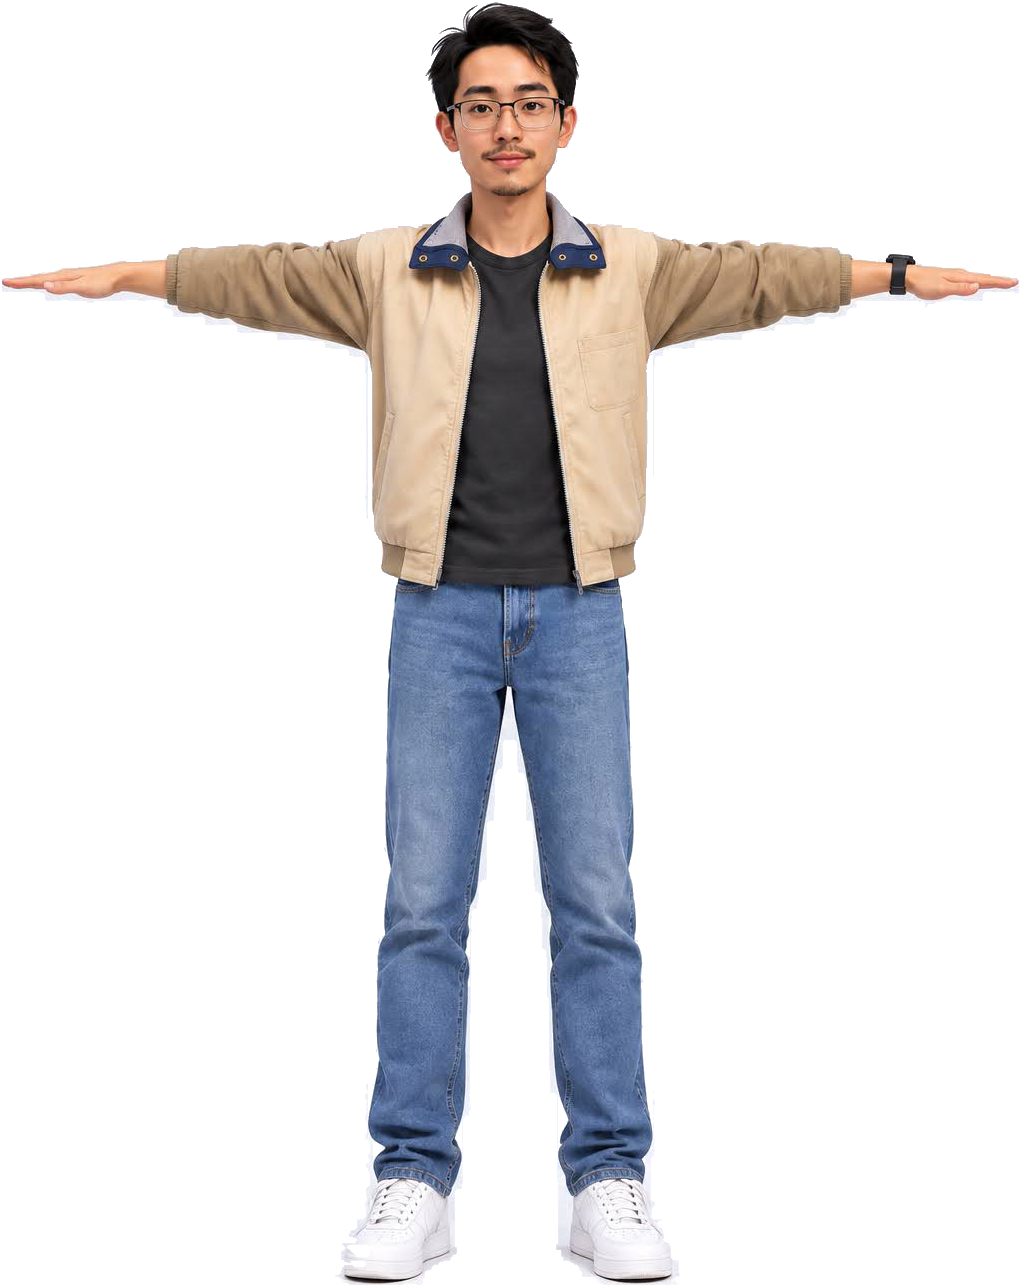
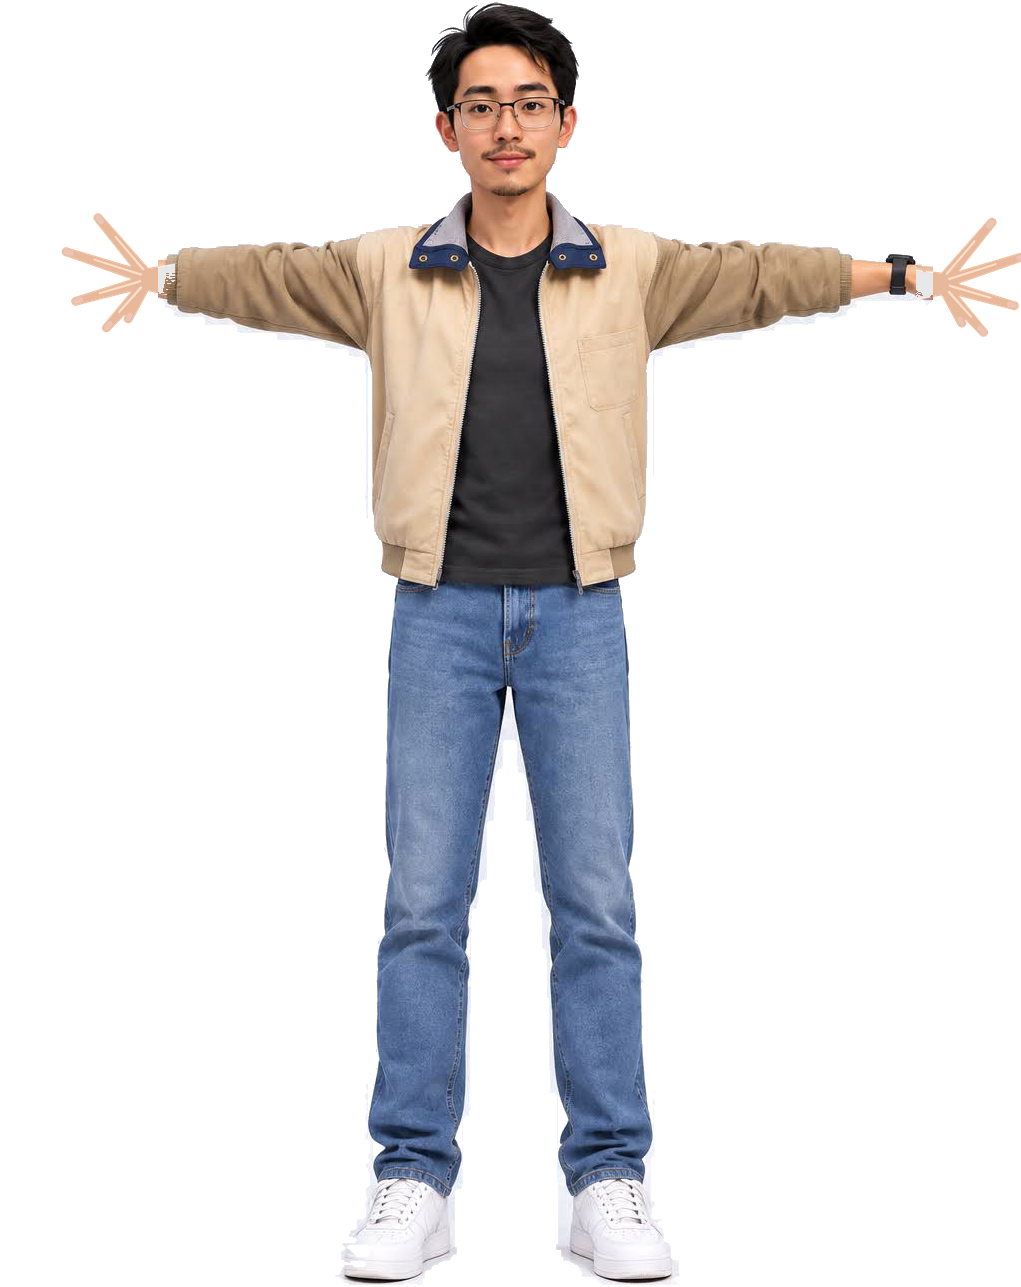
Give each open hand five separated fingers.

Changed region(s): [[0.0, 0.1554, 0.1822, 0.2797], [0.8805, 0.1554, 1.0, 0.2797]]

diff --git a/dance-rig.js b/dance-rig.js
@@ -39,6 +39,38 @@
     let aTop = widest, aBot = widest;
     while(aTop > top && widthAt(aTop - 1) > thr) aTop--;
     while(aBot < bot && widthAt(aBot + 1) > thr) aBot++;
+    // 五指張開後，指尖那幾列和手臂一樣寬，手臂帶會被撐到整隻手那麼高。
+    // 肩膀厚度和雙馬尾裁切跟前臂走，不跟著指尖變厚。
+    {
+      const span = Math.max(1, xMax[widest] - xMin[widest]);
+      const forearm = [];
+      const probeCol = x => {
+        let best = -1, bestD = 1e9;
+        const y0 = Math.max(top, widest - 80), y1 = Math.min(bot, widest + 80);
+        for(let yy = y0; yy <= y1; yy++) if(d[(yy*W + x)*4 + 3] > ALPHA){
+          const dd = Math.abs(yy - widest); if(dd < bestD){ bestD = dd; best = yy; }
+        }
+        if(best < 0) return;
+        let a = best, b = best;
+        while(a > top && d[((a - 1)*W + x)*4 + 3] > ALPHA) a--;
+        while(b < bot && d[((b + 1)*W + x)*4 + 3] > ALPHA) b++;
+        if(b - a > hh*.2) return;
+        forearm.push(b - a);
+      };
+      for(const t of [.12, .16, .2]){
+        probeCol(xMin[widest] + Math.round(span*t));
+        probeCol(xMax[widest] - Math.round(span*t));
+      }
+      if(forearm.length >= 3){
+        forearm.sort((p, q) => p - q);
+        const thick = forearm[Math.floor(forearm.length/2)];
+        if(aBot - aTop > thick*1.55){
+          const half = Math.max(4, Math.round(thick/2));
+          aTop = Math.max(top, widest - half);
+          aBot = Math.min(bot, widest + half);
+        }
+      }
+    }
     // 上半身明顯比中段寬才是有張開的手臂（裙子不會被誤判）；斜的手臂也能通過
     const midW = widthAt(top + Math.round(hh*.5));
     const arms = maxW > midW*1.1 && widest < top + hh*.6;
@@ -74,21 +106,25 @@
     if(arms){
       const scan = (from, to) => {
         for(let x = from; x <= to; x++){
-          let best = -1, bestD = 1e9;
-          for(let y = top; y <= hipY; y++) if(d[(y*W + x)*4 + 3] > ALPHA){
-            const dd = Math.abs(y - widest); if(dd < bestD){ bestD = dd; best = y; }
-          }
-          if(best < 0) continue;
-          let a = best, b = best;
-          while(a > top && d[((a - 1)*W + x)*4 + 3] > ALPHA) a--;
-          while(b < hipY && d[((b + 1)*W + x)*4 + 3] > ALPHA) b++;
-          // 同一欄若和手臂連在一起，雙馬尾、耳朵、外套會整條被算進手臂。
-          // 伸出手臂帶太多的那截留在身體上，手一抬才不會把頭髮甩到臉前面。
+          // 張開的五指中間是透明的，每一指各自是一段。離手臂帶近的都算手。
+          // 雙馬尾、耳朵、外套若伸出手臂帶太多，整段留在身體上，手一抬才不會甩到前面。
           const slack = Math.max(12, Math.round((armBot - armTop) * 0.9));
-          if(armTop - a > slack * 2) a = armTop;
-          if(b - armBot > slack * 2) b = armBot;
-          if(a > b) continue;
-          armTopAt[x] = a; armBotAt[x] = b;
+          let aMin = 1e9, bMax = -1;
+          for(let y = top; y <= hipY; y++){
+            if(d[(y*W + x)*4 + 3] <= ALPHA) continue;
+            let a = y, b = y;
+            while(b < hipY && d[((b + 1)*W + x)*4 + 3] > ALPHA) b++;
+            const tooFar = armTop - a > slack * 2 || b - armBot > slack * 2;
+            if(tooFar){
+              if(b < armTop || a > armBot){ y = b; continue; }
+              a = Math.max(a, armTop); b = Math.min(b, armBot);
+            }
+            if(a < aMin) aMin = a;
+            if(b > bMax) bMax = b;
+            y = b;
+          }
+          if(bMax < 0 || aMin > bMax) continue;
+          armTopAt[x] = aMin; armBotAt[x] = bMax;
         }
       };
       scan(0, shoulderLX);
